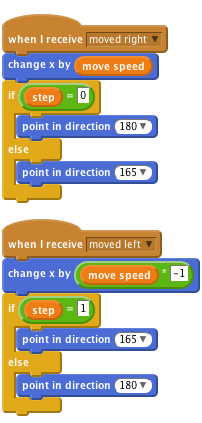
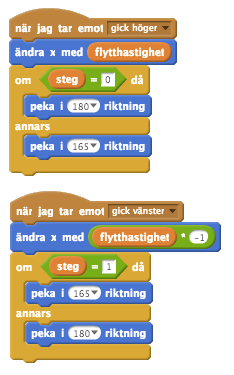
sv-SE_translations: Translated Legs scratch card to Swedish.

diff --git a/sv-SE/02_scratch/01/01-03 Make a Monster - Legs.html b/sv-SE/02_scratch/01/01-03 Make a Monster - Legs.html
@@ -1,0 +1,88 @@
+<!DOCTYPE html>
+<html class="world" lang="sv-SE">
+<head>
+    <meta charset="utf-8">
+    <meta name="viewport" content="width=device-width, initial-scale=1.0">
+
+    <meta name="google-site-verification" content="LAa8xdL-G6vOe9RSZnECSduS5m1BMiM8U2erQku5yIE" />
+
+    <title>Monsterförjdupningskort - Ben — Code Club World Projects</title>
+
+    <!--[if lt IE 9]><script src="http://html5shim.googlecode.com/svn/trunk/html5.js"></script><![endif]-->
+
+    <link rel="stylesheet" href="../../../css/master.min.css">
+  </head>
+
+  <body class="index-template world">
+    <header class="header" role="banner">
+      <a class="home-link" href="../../../index.html"><img alt="" class="logo" height="100" src="../../../img/ccw_logo.png"></a>
+      <h1 class="title">Monsterförjdupningskort - Ben</h1>
+      <span class="level-indicator">Nivå 4</span>
+    </header>
+
+    <nav class="breadcrumbs"><ul class="breadcrumbs-list"><li class="breadcrumbs-item"><a class="breadcrumbs-link" href="../../../index.html">Språk</a></li><li class="breadcrumbs-item"><a class="breadcrumbs-link" href="../../index.html">Svenska</a></li><li class="breadcrumbs-item"><a class="breadcrumbs-link" href="../index.html">Advancerad Scratch</a></li><li class="breadcrumbs-item current">Ben</li></ul></nav>
+
+    <main class="main lesson-steps" role="main">
+<section id="activity-checklist" class="level2 check">
+<h2>Checklista</h2>
+<ul>
+<li>Genom att använda två <strong>sprites</strong> för benen kan vi göra så att det ser ut som att monstret går. För att göra detta behöver vi skapa en <strong>variabel</strong> som växlar mellan två lägen, en för benet som rör sig framåt och det andra som rör sig bakåt(vi kommer att alternera vilket läge som är aktivt för de olika benen).</li>
+</ul>
+<p>För att göra detta behöver vi först skapa en varibel, vi kan kalla den <code class="blockorange">steg</code>. Sedan, varje gång något förflyttningsevent sänds, <strong>ökar vi variabelns värde med 1</strong>. Om variabeln blir högre än 1(vi kan testa detta med operatorn större än, <code class="blockgreen">&gt;</code>) nollställer vi den tillbaka till <strong>noll</strong>.</p>
+<p><img src="41db05ada29e6d05d799d7fd7dce0c0a30dbf993.png" alt="    när FLAGGAN klickas på
+        sätt [flytthastighet] till [5]
+        sätt [steg] till [0]
+
+    när jag tar emot [gick vänster]
+        ändra [steg] med [1]
+        om &lt; (steg) &gt; [1] &gt;
+            sätt [steg] till [0]
+        slut
+
+    när jag tar emot [gick höger]
+        ändra [steg] med [1]
+        om &lt; (steg) &gt; [1] &gt;
+            sätt [steg] till [0]
+        slut" /></p>
+<ul>
+<li>Nu kan vi göra så att benen promenerar(svingar längs en cirkels rand) genom att kolla mot vår variabel <code class="blockorange">steg</code>. <strong>När variabeln är satt till noll</strong> kan vi ändra <code class="blockblue">riktning</code> på benens svingrörelser (här använde vi en statisk riktning för att inte benen ska bli tokiga om vår variabel och vinkeln inte matchar, men du kanske vill att ditt monster ska göra så).</li>
+</ul>
+<p>Glöm inte att flytta benen med kroppen med hjälp av variabeln <code class="blockorange">flytthastighet</code>.</p>
+<p><img src="35dfec5fcbf61d2aade9a4dfcb4acd1dcae0de5c.png" alt="    när jag tar emot [gick höger]
+        ändra x med (flytthastighet)
+        om &lt; (steg) = [0] &gt;
+            peka i (180 graders) riktning
+        annars
+            peka i (165 graders) riktning
+        slut
+
+    när jag tar emot [gick vänster]
+    ändra x med (flytthastighet)
+    om &lt; (steg) = [1] &gt;
+        peka i (165 graders) riktning
+    annars
+        peka i (180 graders) riktning
+    slut" /></p>
+<p><strong>Du skulle kunna använda samma sorters åtgärder till att skapa enkla vinkande armar eller till och med flaxande fågelvingar.</strong></p>
+</section>
+    </main>
+
+    <aside class="legal-notice copyright">
+      <p>These projects are for use outside the UK only. More information is available on our website at <a href="http://www.codeclub.org.uk/">http://www.codeclub.org.uk/</a>. This coursework is developed in the open on GitHub (<a href="https://github.com/CodeClub/">https://github.com/CodeClub</a>), come and join us!</p>
+      <p>&copy; 2014 Code Club. This work is licensed under a <a rel="license" href="http://creativecommons.org/licenses/by-nc-sa/4.0/">BY-NC-SA 4.0 International License</a>.</p>
+    </aside>
+
+    <!-- Google Analytics -->
+    <script type="text/javascript">
+      var _gaq = _gaq || [];
+      _gaq.push(['_setAccount', 'UA-30750176-5']);
+      _gaq.push(['_setDomainName', 'projects.codeclubworld.org']);
+      _gaq.push(['_trackPageview']);
+      (function() {
+        var ga = document.createElement('script'); ga.type = 'text/javascript'; ga.async = true;
+        ga.src = ('https:' == document.location.protocol ? 'https://ssl' : 'http://www') + '.google-analytics.com/ga.js';
+        var s = document.getElementsByTagName('script')[0]; s.parentNode.insertBefore(ga, s);
+      })();
+    </script>
+  </body>
+</html>
